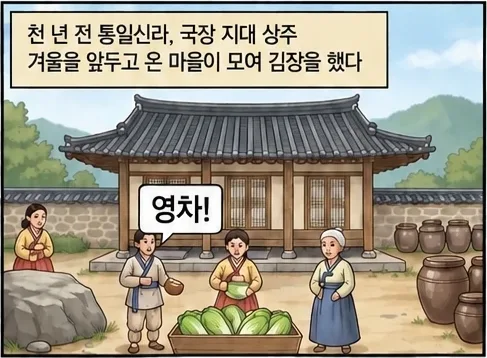
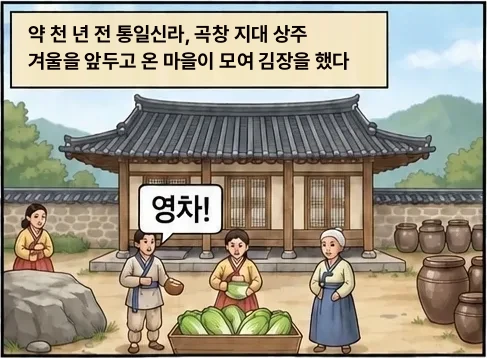
삼투압 만화 1컷 문구 수정: 약 천 년 전, 곡창 지대
Claude-Session: https://claude.ai/code/session_018j1CEXYVSgYQY3PyAy8GrR

Changed region(s): [[0.0616, 0.0615, 0.7392, 0.2151]]

diff --git a/themes.js b/themes.js
@@ -61,7 +61,7 @@ const THEMES = {
         teaser: '같은 물인데, 왜 배추는 정반대로 변할까?',
         image: null,
         comic: [
-            { image: 'images/osmosis-1.webp', text: '천 년 전 통일신라, 온 마을이 모여 김장을 했다' },
+            { image: 'images/osmosis-1.webp?v=2', text: '약 천 년 전 통일신라, 곡창 지대 상주에서 온 마을이 모여 김장을 했다' },
             { image: 'images/osmosis-2.webp', text: '갓 딴 배추에 굵은 소금을 치고 소금물에 담가 두었더니…' },
             { image: 'images/osmosis-3.webp', text: '몇 시간 뒤, 단단했던 배추가 흐물흐물해졌다?' },
             { image: 'images/osmosis-4.webp', text: '반대로 시든 배추를 깨끗한 찬물에 담가 두었더니…' },
@@ -70,7 +70,7 @@ const THEMES = {
             { image: 'images/osmosis-7.webp', text: '소금물에선 물이 빠지고, 맹물에선 물을 머금는다…' },
             { image: 'images/osmosis-8.webp', text: '배추는 김장에 써야 하니… 감자랑 무로 실험해 보자!' }
         ],
-        story: '천 년 전 통일신라, 김장을 하던 마을. 싱싱한 배추에 굵은 소금을 치고 소금물에 담가 두었더니 몇 시간 뒤 단단했던 배추가 흐물흐물해졌다. 반대로 시들어 쪼글쪼글해진 배추를 깨끗한 찬물에 담가 두었더니 며칠 뒤 다시 통통하게 살아났다. 소금물에선 물이 빠지고 맹물에선 물을 머금는 걸까? 배추는 김장에 써야 하니, 감자와 무로 실험해 보자.',
+        story: '약 천 년 전 통일신라, 곡창 지대 상주에서 김장을 하던 마을. 싱싱한 배추에 굵은 소금을 치고 소금물에 담가 두었더니 몇 시간 뒤 단단했던 배추가 흐물흐물해졌다. 반대로 시들어 쪼글쪼글해진 배추를 깨끗한 찬물에 담가 두었더니 며칠 뒤 다시 통통하게 살아났다. 소금물에선 물이 빠지고 맹물에선 물을 머금는 걸까? 배추는 김장에 써야 하니, 감자와 무로 실험해 보자.',
         vars: [
             { name: '소금물 농도', options: ['0% (증류수)', '0.9%', '3%', '10%'] },
             { name: '식물 재료', options: ['감자', '무'] },

diff --git a/index.html b/index.html
@@ -5,10 +5,10 @@
     <meta name="viewport" content="width=device-width, initial-scale=1.0">
     <title>웹 기반 과학 탐구 프로젝트</title>
     <link rel="stylesheet" href="https://cdn.jsdelivr.net/gh/orioncactus/pretendard@v1.3.9/dist/web/static/pretendard.css">
-    <link rel="stylesheet" href="style.css?v=20261104a">
-    <link rel="stylesheet" href="newspaper.css?v=20261104a">
-    <link rel="stylesheet" href="devices.css?v=20261104a">
-    <link rel="stylesheet" href="scenes.css?v=20261104a">
+    <link rel="stylesheet" href="style.css?v=20261105a">
+    <link rel="stylesheet" href="newspaper.css?v=20261105a">
+    <link rel="stylesheet" href="devices.css?v=20261105a">
+    <link rel="stylesheet" href="scenes.css?v=20261105a">
 </head>
 <body>
 
@@ -420,12 +420,12 @@
 
 <script src="https://cdn.jsdelivr.net/npm/@supabase/supabase-js@2.45.4/dist/umd/supabase.js"></script>
 <script src="https://cdn.jsdelivr.net/npm/chart.js@4.4.1/dist/chart.umd.js"></script>
-<script src="config.js?v=20261104a"></script>
-<script src="themes.js?v=20261104a"></script>
-<script src="common.js?v=20261104a"></script>
-<script src="devices.js?v=20261104a"></script>
-<script src="scenes.js?v=20261104a"></script>
-<script src="ai.js?v=20261104a"></script>
-<script src="app.js?v=20261104a"></script>
+<script src="config.js?v=20261105a"></script>
+<script src="themes.js?v=20261105a"></script>
+<script src="common.js?v=20261105a"></script>
+<script src="devices.js?v=20261105a"></script>
+<script src="scenes.js?v=20261105a"></script>
+<script src="ai.js?v=20261105a"></script>
+<script src="app.js?v=20261105a"></script>
 </body>
 </html>

diff --git a/teacher.html b/teacher.html
@@ -5,9 +5,9 @@
     <meta name="viewport" content="width=device-width, initial-scale=1.0">
     <title>교사용 대시보드 - 과학 탐구 프로젝트</title>
     <link rel="stylesheet" href="https://cdn.jsdelivr.net/gh/orioncactus/pretendard@v1.3.9/dist/web/static/pretendard.css">
-    <link rel="stylesheet" href="style.css?v=20261104a">
-    <link rel="stylesheet" href="newspaper.css?v=20261104a">
-    <link rel="stylesheet" href="teacher.css?v=20261104a">
+    <link rel="stylesheet" href="style.css?v=20261105a">
+    <link rel="stylesheet" href="newspaper.css?v=20261105a">
+    <link rel="stylesheet" href="teacher.css?v=20261105a">
 </head>
 <body class="teacher">
 
@@ -155,9 +155,9 @@
 <script src="https://cdn.jsdelivr.net/npm/@supabase/supabase-js@2.45.4/dist/umd/supabase.js"></script>
 <script src="https://cdn.jsdelivr.net/npm/chart.js@4.4.1/dist/chart.umd.js"></script>
 <script src="https://cdn.jsdelivr.net/npm/qrcode-generator@1.4.4/qrcode.js"></script>
-<script src="config.js?v=20261104a"></script>
-<script src="themes.js?v=20261104a"></script>
-<script src="common.js?v=20261104a"></script>
-<script src="teacher.js?v=20261104a"></script>
+<script src="config.js?v=20261105a"></script>
+<script src="themes.js?v=20261105a"></script>
+<script src="common.js?v=20261105a"></script>
+<script src="teacher.js?v=20261105a"></script>
 </body>
 </html>
